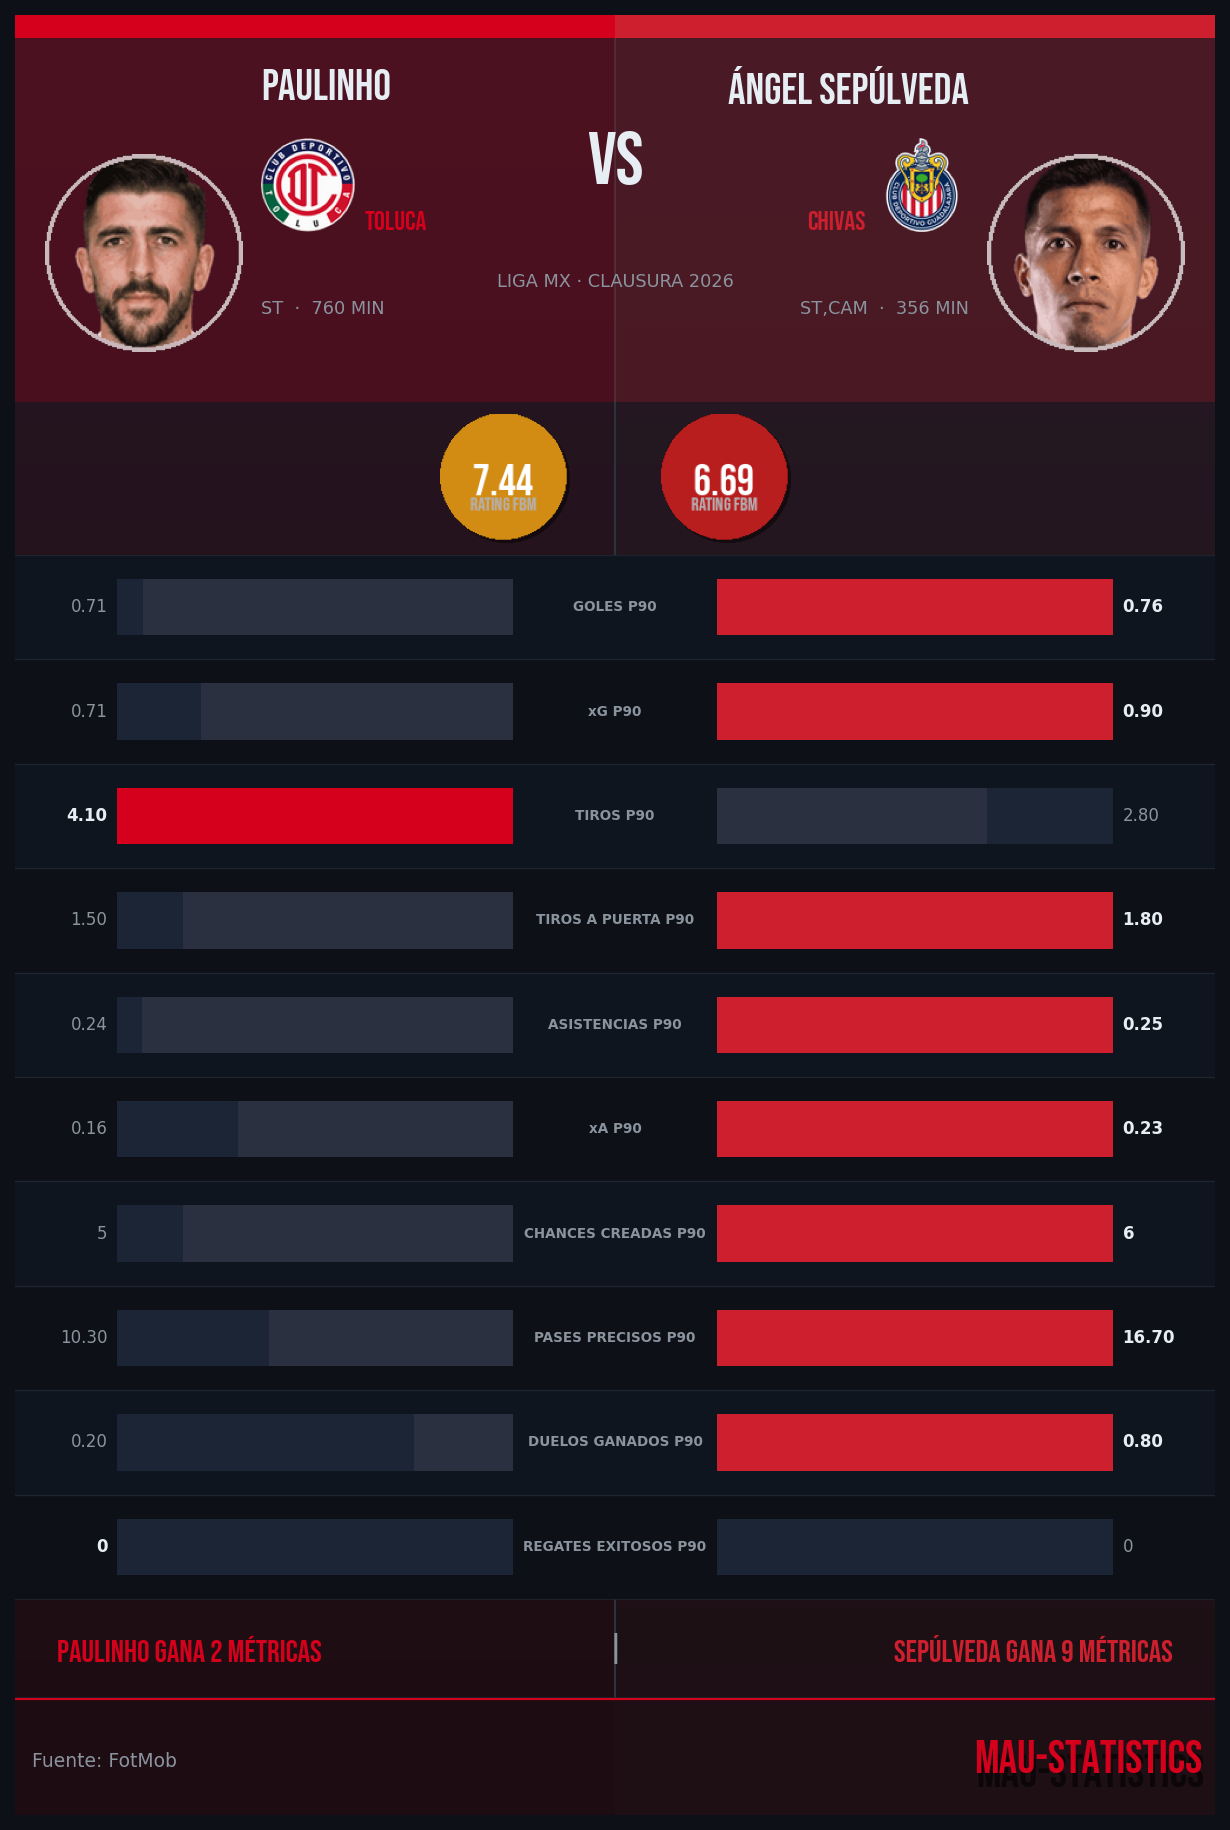
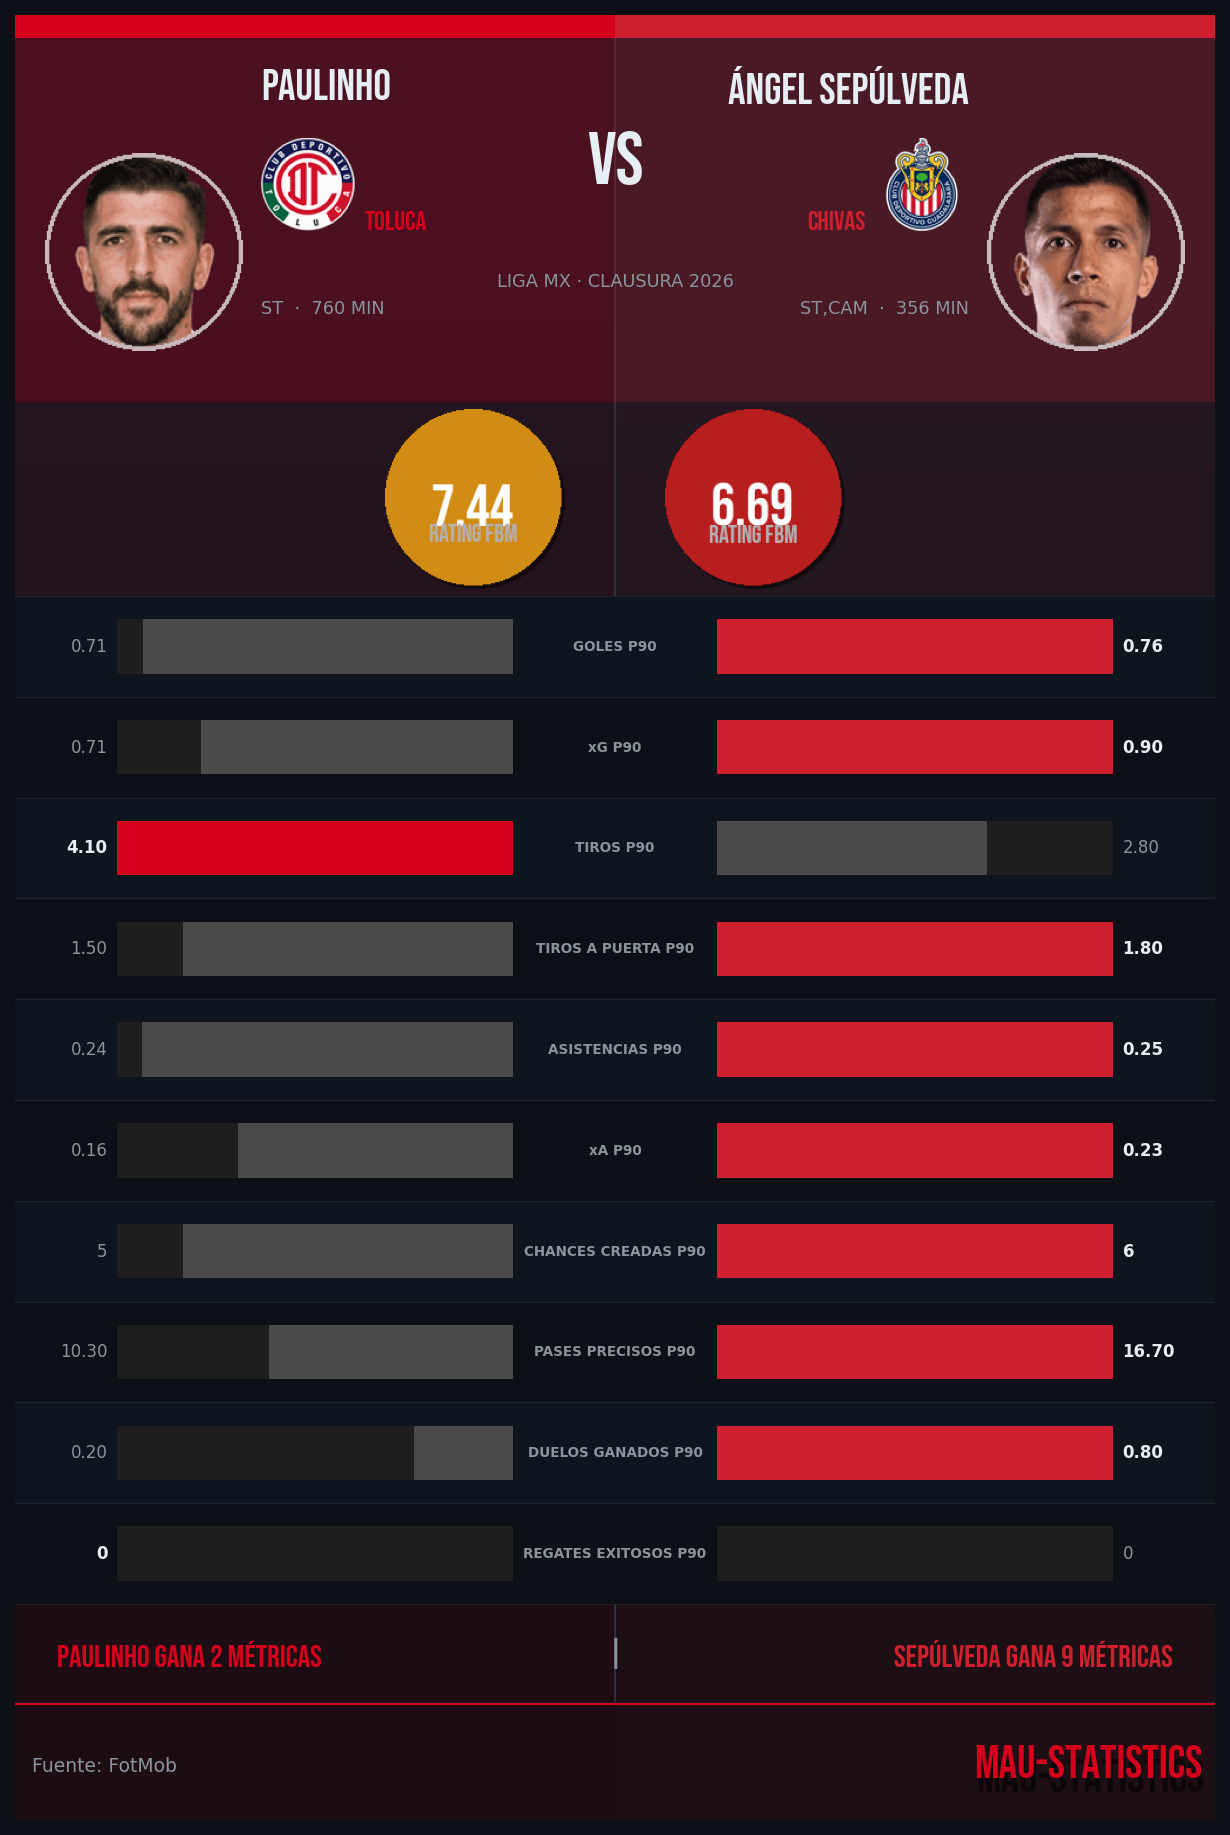
style: barras perdedoras en gris neutro #4a4a4a, círculos de rating más grandes

diff --git a/scripts/08_comparativo_1v1.py b/scripts/08_comparativo_1v1.py
@@ -52,9 +52,9 @@ def bebas(size):
 DARK_BG   = '#0d1117'
 WHITE     = '#e6edf3'
 GRAY      = '#8b949e'
-GRAY_DIM  = '#2a3040'   # barra perdedora (gris oscuro visible)
+GRAY_DIM  = '#4a4a4a'   # barra perdedora — gris neutro
 RED_BRAND = '#D5001C'
-BAR_TRACK = '#1c2535'   # fondo de pista de la barra
+BAR_TRACK = '#1e1e1e'   # fondo de pista de la barra
 
 TEAM_COLORS = {
     6618:    '#D5001C',   # Toluca
@@ -103,9 +103,9 @@ AR           = FIG_H / FIG_W   # 1.5 — para cuadrar elementos circulares
 
 FOOTER_H  = 0.065
 WINCTR_H  = 0.055
-ROW_H     = 0.058
-METRICS_H = ROW_H * N_METRICS        # 0.58
-RATING_H  = 0.085
+ROW_H     = 0.056
+METRICS_H = ROW_H * N_METRICS        # 0.56
+RATING_H  = 0.108
 HEADER_H  = 0.215
 
 FOOTER_Y  = 0.000
@@ -398,13 +398,13 @@ def render_1v1(pid1: int, pid2: int):
     # ════════════════════════════════════════════════════════════════════════
     rat1 = r1.get('rating')
     rat2 = r2.get('rating')
-    rc_h = 0.072; rc_w = rc_h * AR
+    rc_h = 0.100; rc_w = rc_h * AR
     rc_y  = RATING_Y + (RATING_H - rc_h) / 2
 
-    rc1_arr = make_rating_circle(rat1 if pd.notna(rat1) else None, 120)
-    rc2_arr = make_rating_circle(rat2 if pd.notna(rat2) else None, 120)
-    _add_img_axis(fig, rc1_arr, CENTER_X - rc_w - 0.038, rc_y, rc_w, rc_h)
-    _add_img_axis(fig, rc2_arr, CENTER_X + 0.038, rc_y, rc_w, rc_h)
+    rc1_arr = make_rating_circle(rat1 if pd.notna(rat1) else None, 160)
+    rc2_arr = make_rating_circle(rat2 if pd.notna(rat2) else None, 160)
+    _add_img_axis(fig, rc1_arr, CENTER_X - rc_w - 0.042, rc_y, rc_w, rc_h)
+    _add_img_axis(fig, rc2_arr, CENTER_X + 0.042, rc_y, rc_w, rc_h)
 
     # ════════════════════════════════════════════════════════════════════════
     # BARRAS DE MÉTRICAS  — UN SOLO EJE con Rectangle patches
